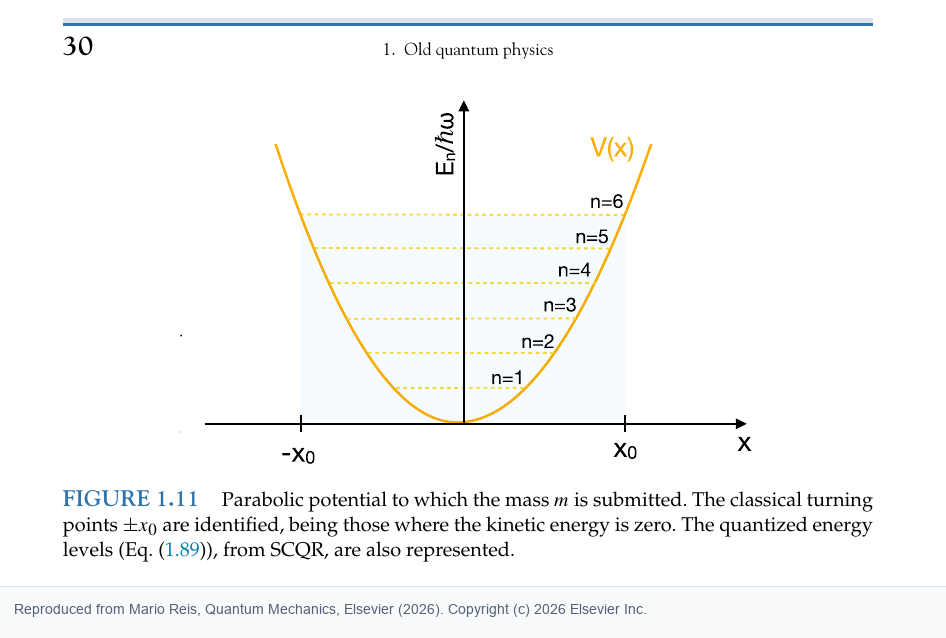
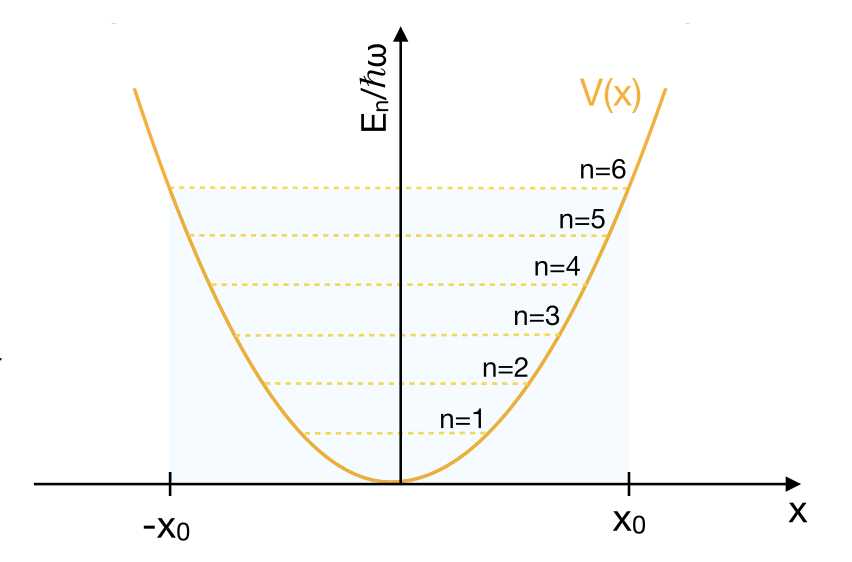
Improve SCQR examples and figure crops

diff --git a/slides/chapter-01/scqr-examples.html b/slides/chapter-01/scqr-examples.html
@@ -143,30 +143,35 @@
 
       <div class="card orange guide-card">
         <div class="ch orange"><i class="fa-solid fa-map-location-dot"></i> Guided reading</div>
-        <p>The examples are variations on one recipe. For any bound one-dimensional motion, write \(p(x)=\sqrt{2m[E-V(x)]}\), find the turning points and apply \(\oint p\,dx=nh\). The harmonic oscillator, infinite well and power-law potentials differ mainly in the shape of \(V(x)\) and therefore in the integral.</p>
-    <p>The equations show what the old rule captures and what it misses. It gives the spacing trend for the oscillator and the \(n^2\) scaling for the infinite well, but the exact zero-point correction belongs to full wave mechanics. This makes the examples practical preparation, not final theory.</p>
+        <p>Read these examples as applications of one recipe, not as a list of orange formulas. First identify the classically allowed region. Then write \(p(x)=\sqrt{2m[E-V(x)]}\). Finally integrate over a complete classical cycle and impose \(\oint p\,dx=nh\).</p>
+    <p>For the harmonic oscillator, the closed curve in phase space is an ellipse whose area is \(2\pi E/\omega\), so SCQR gives \(E_n=n\hbar\omega\). For the infinite well, the particle moves with constant momentum across the box and back, giving \(2pa=nh\) and \(E_n=n^2h^2/(8ma^2)\). The method is therefore a logical chain from classical motion to allowed energies.</p>
       </div>
       <div class="col">
 
         <div class="card">
-          <div class="ch"><i class="fa-solid fa-wave-square"></i> Harmonic oscillator</div>
+          <div class="ch"><i class="fa-solid fa-wave-square"></i> Harmonic oscillator: phase-space area</div>
           <figure class="book-figure">
-            <img src="../../assets/chapter-01/figures/fig-1-11-harmonic-oscillator-scqr.png?v=0619.3" alt="Fig. 1.11, adapted from the original chapter: the classical oscillator potential and the semiclassical energy ladder." loading="lazy" />
+            <img src="../../assets/chapter-01/figures/fig-1-11-harmonic-oscillator-scqr.png?v=0713.3" alt="Fig. 1.11, adapted from the original chapter: the classical oscillator potential and the semiclassical energy ladder." loading="lazy" />
             <figcaption>Fig. 1.11, adapted from the original chapter: the classical oscillator potential and the semiclassical energy ladder. Copyright &copy; 2026 Elsevier Inc.</figcaption>
           </figure>
-          <div class="eq key-eq">\[E=\frac{p^2}{2m}+\frac{1}{2}kx^2,\qquad x_0^2=\frac{2E}{k}\]</div>
-          <div class="eq key-eq">\[E_n=n\hbar\omega\]</div>
-          <p>The semiclassical result captures equally spaced levels but does not include the exact zero-point energy.</p>
+          <p>Start with \(E=p^2/(2m)+m\omega^2x^2/2\). For fixed \(E\), this is an ellipse in phase space \((x,p)\).</p>
+          <div class="eq key-eq">\[1=\frac{p^2}{2mE}+\frac{x^2}{2E/(m\omega^2)}\]</div>
+          <div class="eq key-eq">\[\oint p\,dx=A=\pi\sqrt{2mE}\sqrt{\frac{2E}{m\omega^2}}=\frac{2\pi E}{\omega}\]</div>
+          <div class="eq key-eq">\[\frac{2\pi E}{\omega}=nh\quad\Rightarrow\quad E_n=n\hbar\omega\]</div>
+          <p>The SCQR result explains the equal spacing. Full quantum mechanics later adds the zero-point shift, \(E_n=(n+1/2)\hbar\omega\).</p>
         </div>
 
         <div class="card green">
-          <div class="ch green"><i class="fa-solid fa-box"></i> Infinite potential well</div>
+          <div class="ch green"><i class="fa-solid fa-box"></i> Infinite potential well: closed classical cycle</div>
           <figure class="book-figure">
-            <img src="../../assets/chapter-01/figures/fig-1-14-infinite-well.png?v=0619.3" alt="Fig. 1.14, adapted from the original chapter: allowed levels in an infinite potential well." loading="lazy" />
+            <img src="../../assets/chapter-01/figures/fig-1-14-infinite-well.png?v=0713.3" alt="Fig. 1.14, adapted from the original chapter: allowed levels in an infinite potential well." loading="lazy" />
             <figcaption>Fig. 1.14, adapted from the original chapter: allowed levels in an infinite potential well. Copyright &copy; 2026 Elsevier Inc.</figcaption>
           </figure>
-          <div class="eq key-eq">\[L=\frac{n\lambda}{2},\qquad E_n=\frac{n^2h^2}{8mL^2}\]</div>
-          <p>The boundary conditions force standing waves, so the energy grows as \(n^2\).</p>
+          <p>Inside the box, \(V=0\), so the momentum is constant. The closed classical path goes from one wall to the other and back.</p>
+          <div class="eq key-eq">\[p=\sqrt{2mE},\qquad \oint p\,dx=2pa\]</div>
+          <div class="eq key-eq">\[2pa=nh\quad\Rightarrow\quad p_n=\frac{nh}{2a}\]</div>
+          <div class="eq key-eq">\[E_n=\frac{p_n^2}{2m}=\frac{n^2h^2}{8ma^2}\]</div>
+          <p>The same result can be read as a standing-wave condition, \(a=n\lambda/2\). The walls select wavelengths, and the wavelengths select energies.</p>
         </div>
       </div>
       <div class="col">
@@ -182,9 +187,14 @@
         </div>
 
         <div class="card purple">
-          <div class="ch purple"><i class="fa-solid fa-clipboard-check"></i> Practical summary</div>
-          <p>All examples share the same workflow: find the classically allowed region, write \(p(x)=\sqrt{2m(E-V(x))}\), integrate over a full cycle and solve the quantization condition.</p>
-          <div class="callout">The app should later turn this card into exercises where the student identifies turning points before doing any algebra.</div>
+          <div class="ch purple"><i class="fa-solid fa-clipboard-check"></i> How to read these examples</div>
+          <ol class="numbered">
+            <li>Find the classically allowed region.</li>
+            <li>Write \(p(x)=\sqrt{2m[E-V(x)]}\).</li>
+            <li>Integrate over one complete classical cycle.</li>
+            <li>Set \(\oint p\,dx=nh\) and solve for \(E_n\).</li>
+          </ol>
+          <p>The equations make sense only in this order. The orange boxes are the calculation path, not isolated formulas.</p>
         </div>
       </div>
 

diff --git a/slides/chapter-01/de-broglie-hypothesis.html b/slides/chapter-01/de-broglie-hypothesis.html
@@ -151,7 +151,7 @@
         <div class="card">
           <div class="ch"><i class="fa-solid fa-arrows-spin"></i> Orbit as a wave condition</div>
           <figure class="book-figure">
-            <img src="../../assets/chapter-01/figures/fig-1-10-de-broglie-orbit.png?v=0619.3" alt="Fig. 1.10, adapted from the original chapter: a stable orbit can be pictured as a standing matter wave." loading="lazy" />
+            <img src="../../assets/chapter-01/figures/fig-1-10-de-broglie-orbit.png?v=0713.3" alt="Fig. 1.10, adapted from the original chapter: a stable orbit can be pictured as a standing matter wave." loading="lazy" />
             <figcaption>Fig. 1.10, adapted from the original chapter: a stable orbit can be pictured as a standing matter wave. Copyright &copy; 2026 Elsevier Inc.</figcaption>
           </figure>
           <p>de Broglie's hypothesis gives Bohr's quantization a wave interpretation: the orbit is allowed only when the matter wave fits itself after a full cycle.</p>